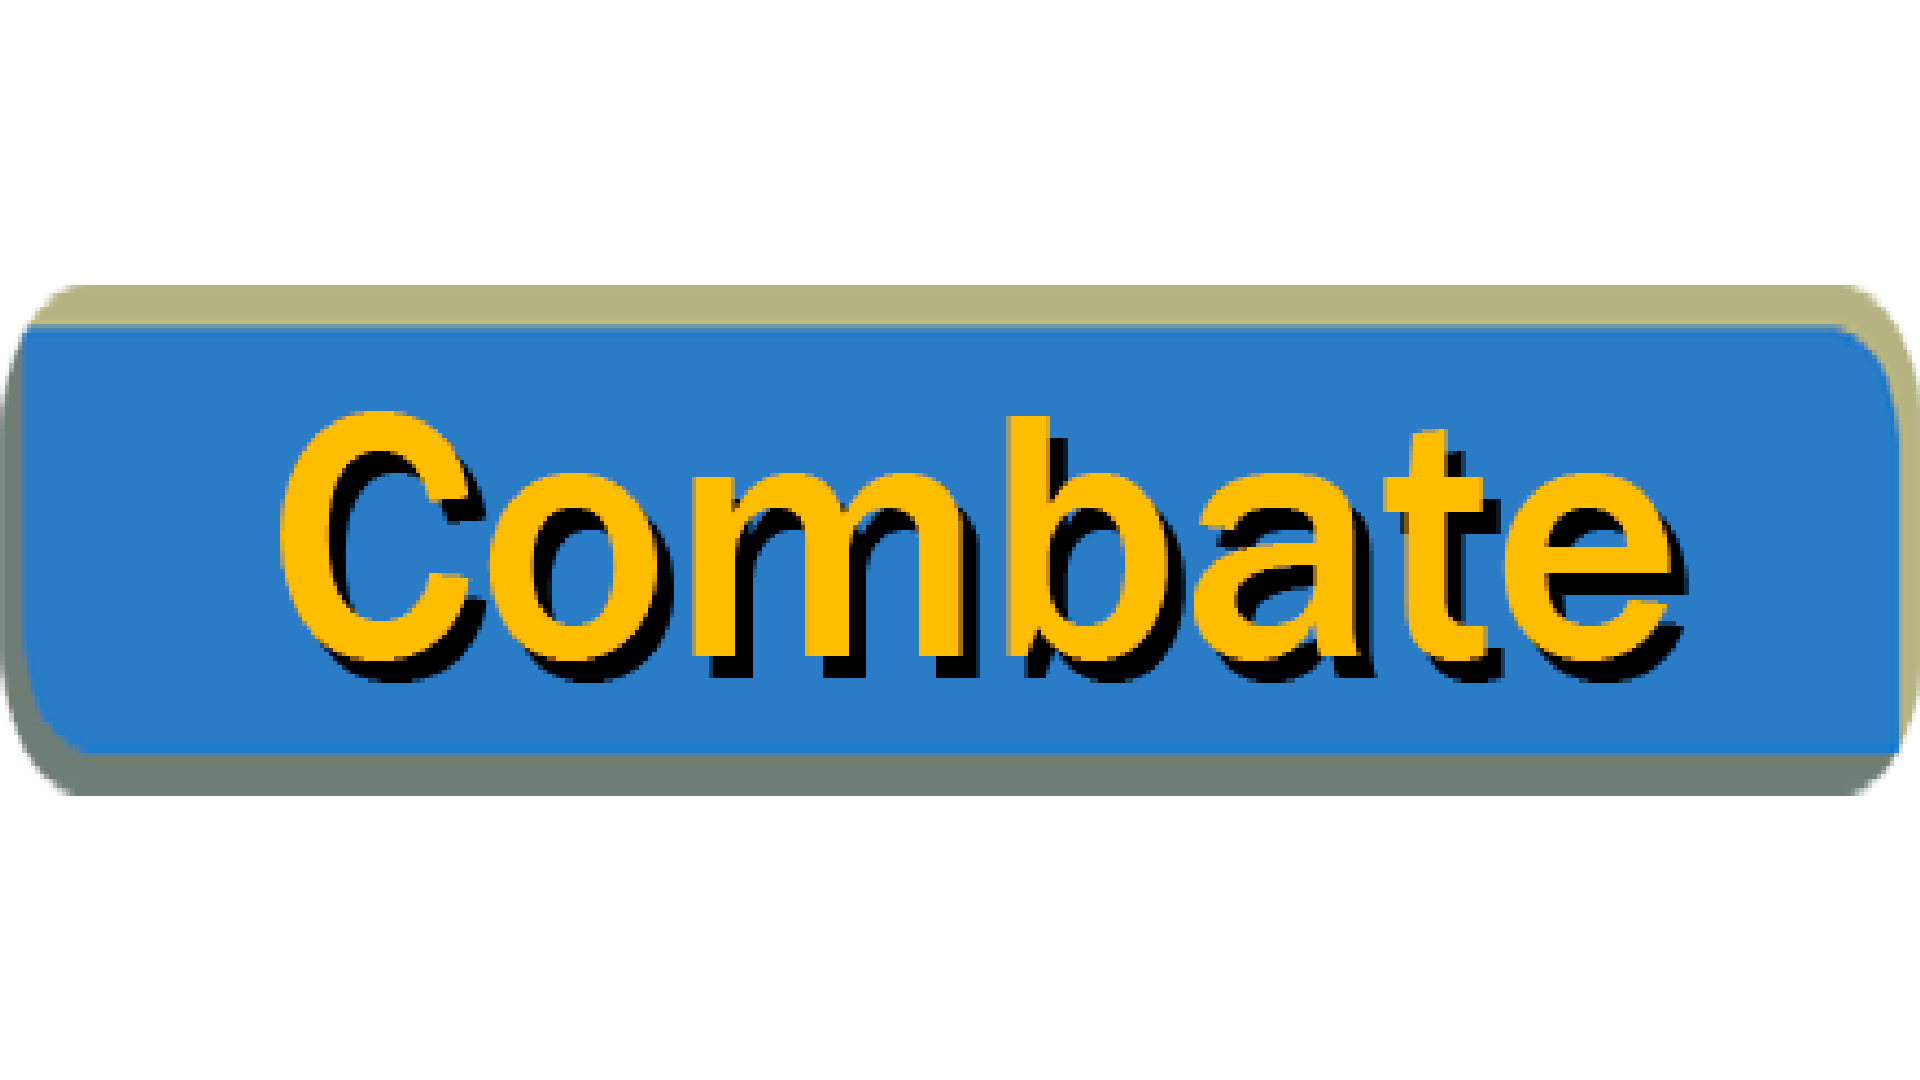
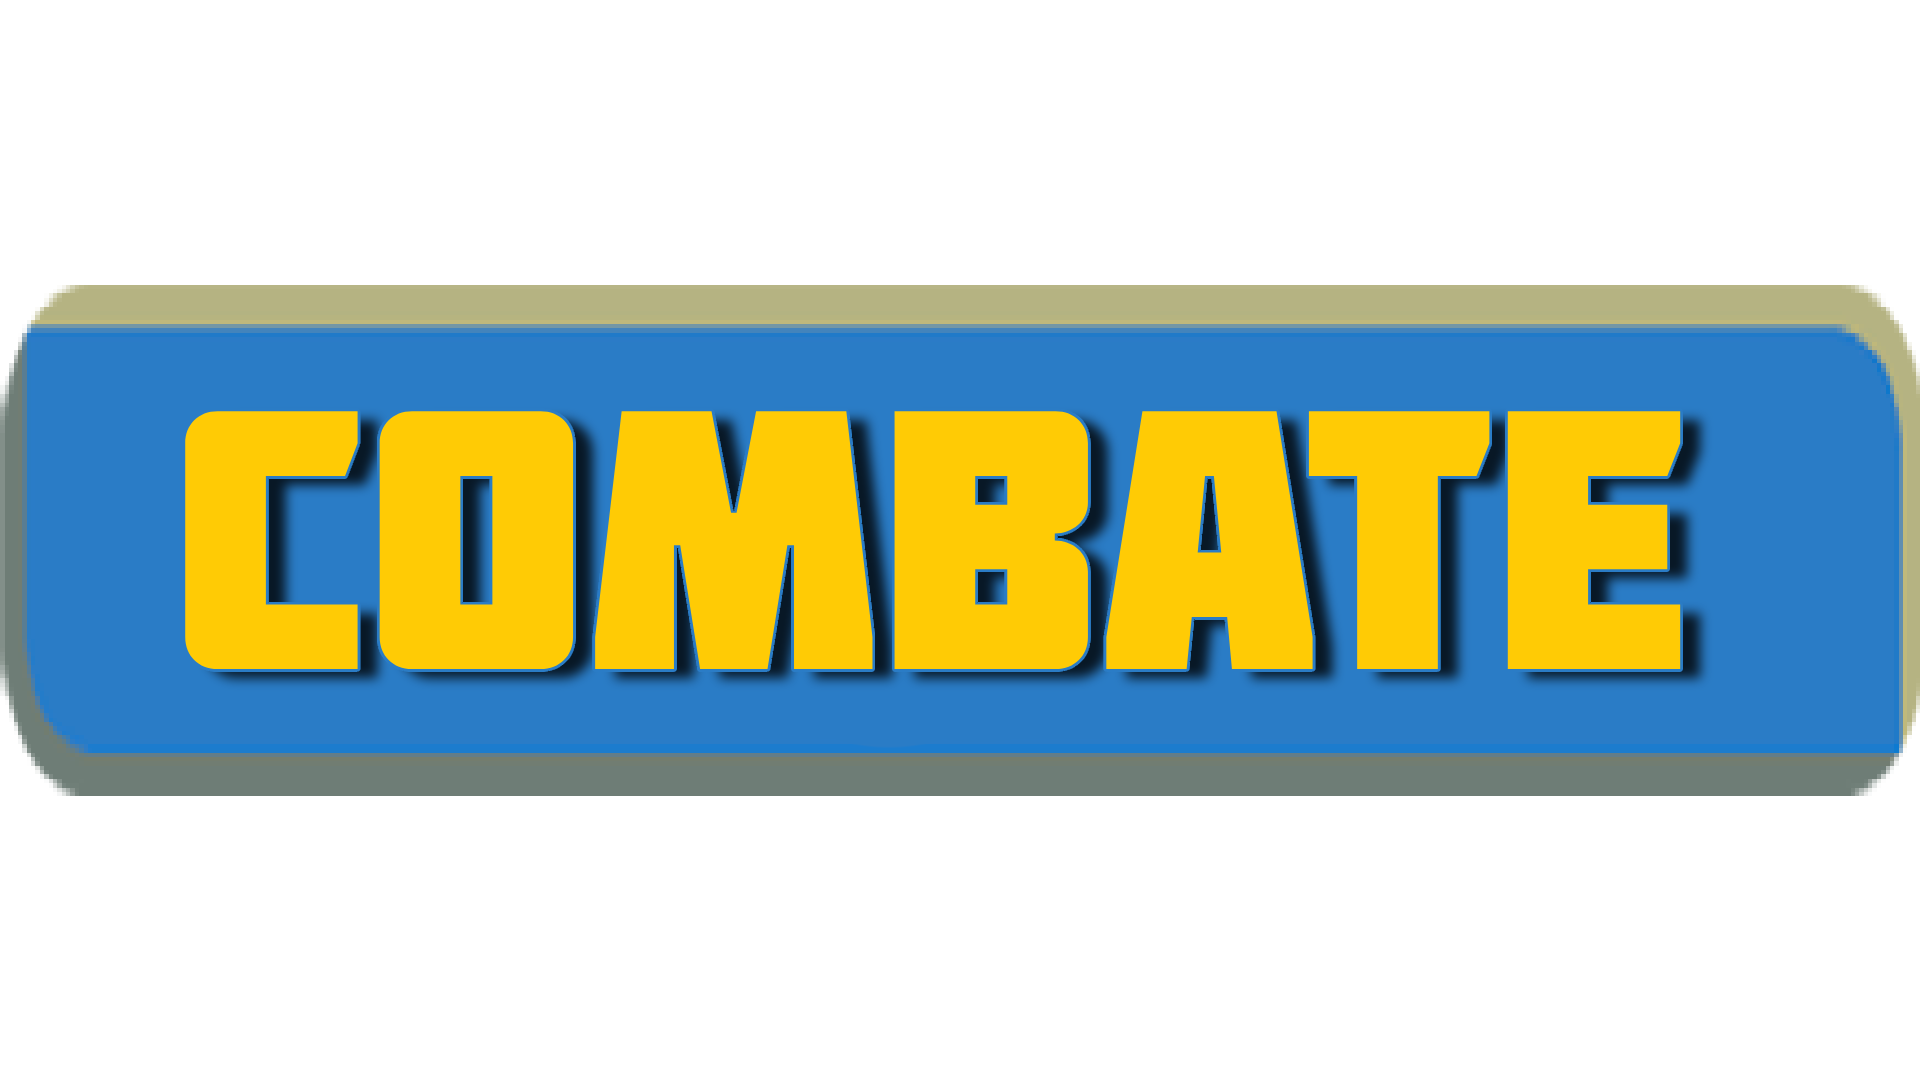
Mejora del menu

diff --git a/src/main/resources/Menu.css b/src/main/resources/Menu.css
@@ -8,67 +8,79 @@
 /* Estilo del botón individual (combate, pokedex, entrenador, mochila, etc...) */
 #combateButton {
     -fx-background-color: transparent;
-    -fx-translate-x: 298.5px;
-    -fx-translate-y: -120px;
+    -fx-translate-x: 297px;
+    -fx-translate-y: -108px;
     -fx-min-width: 230px;
     -fx-min-height: 130px;
     -fx-background-image: url('img/botones/menu-combate.png');
     -fx-background-size: contain;
     -fx-background-repeat: no-repeat;
     -fx-background-position: center;
-    -fx-rotate: 12deg;
+    -fx-rotate: 13.5deg;
 
 }
 
-#explorarButton {
+#capturarButton {
     -fx-background-color: transparent;
-    -fx-translate-x: 130px;
-    -fx-translate-y: 75px;
-    -fx-min-width: 180px;
-    -fx-min-height: 45px;
- /*   -fx-background-image: url('img/botones/menu-explorar.png'); */
+    -fx-translate-x: 270.5px;
+    -fx-translate-y: -10px;
+    -fx-min-width: 230px;
+    -fx-min-height: 130px;
+    -fx-background-image: url('img/botones/menu-capturar.png');
+    -fx-background-size: contain;
+    -fx-background-repeat: no-repeat;
+    -fx-background-position: center;
+    -fx-rotate: 14deg;
 }
+
 
 #pokedexButton {
     -fx-background-color: transparent;
-    -fx-translate-x: -120px;
-    -fx-translate-y: -120px;
-    -fx-min-width: 180px;
-    -fx-min-height: 45px;
+    -fx-translate-x: 245.5px;
+    -fx-translate-y: 88.5px;
+    -fx-min-width: 230px;
+    -fx-min-height: 130px;
     -fx-background-image: url('img/botones/menu-pokedex.png');
     -fx-background-size: contain;
     -fx-background-repeat: no-repeat;
     -fx-background-position: center;
-    -fx-rotate: 12deg;
+    -fx-rotate: 14deg;
 
 }
 
-#entrenadorButton {
+#tiendaButton {
     -fx-background-color: transparent;
-    -fx-translate-x: -400px;
-    -fx-translate-y: -235px;
-    -fx-min-width: 180px;
-    -fx-min-height: 45px;
-    -fx-background-image: url('img/botones/menu-entrenador.png');
+    -fx-translate-x: 222px;
+    -fx-translate-y: 186.2px;
+    -fx-min-width: 230px;
+    -fx-min-height: 130px;
+    -fx-background-image: url('img/botones/menu-tienda.png');
     -fx-background-size: contain;
     -fx-background-repeat: no-repeat;
     -fx-background-position: center;
-    -fx-rotate: 12deg;
+    -fx-rotate: 14deg;
 }
+
+/*
 
 #mochilaButton {
     -fx-background-color: transparent;
     -fx-min-width: 180px;
     -fx-min-height: 45px;
-    -fx-opacity: 0; /* Mochila no se muestra en el inicio */
+    -fx-opacity: 0;
 }
 
-#tiendaButton {
+#entrenadorButton {
     -fx-background-color: transparent;
-    -fx-translate-x: 130px;
-    -fx-translate-y: -7.5px;
-    -fx-min-width: 180px;
-    -fx-min-height: 45px;
+    -fx-translate-x: 298.5px;
+    -fx-translate-y: -120px;
+    -fx-min-width: 230px;
+    -fx-min-height: 130px;
+    -fx-background-image: url('img/botones/menu-tienda.png');
+    -fx-background-size: contain;
+    -fx-background-repeat: no-repeat;
+    -fx-background-position: center;
+    -fx-rotate: 12deg;
 }
 
 #salirButton {
@@ -79,6 +91,10 @@
     -fx-min-height: 45px;
 }
 
+*/
+
+
+
 #barra {
     -fx-translate-x: 65px;
     -fx-translate-y: 0px;
@@ -86,8 +102,30 @@
     -fx-min-height: 45px;
 }
 
+#logo {
+    -fx-translate-x: 322px;
+    -fx-translate-y: -225px;
+    -fx-scale-x: 0.5;
+    -fx-scale-y: 0.5;
+    -fx-effect: dropshadow(gaussian, rgba(49,100,158,0.7), 4, 0, 7.5, 4);
+    -fx-rotate: 14.5deg
+}
+
+/*
+Hover: Estilo de cuando tienes el ratón encima del botón:
+- Efecto de sombra.
+- Color del texto al tener el ratón encima del botón.
+
+Valores del hover:
+    gaussian: Tipo de sombra.
+    rgba(0,0,0,0.8): Los tres primeros valores son el RGB, el último la transparencia.
+    x1: Distancia horizontal entre la sombra y el objeto.
+    x2: Distancia vertical entre la sombra y el objeto.
+    x3: Desenfoque de la sombra.
+    x4: Tamaño de la extensión de la sombra.
+*/
+
     /* Hover: Estilo cuando tienes el ratón encima del botón */
     .button:hover {
-    -fx-effect: dropshadow(gaussian, rgba(0, 0, 0, 0.8), 3, 2, 0, 2);
-    -fx-text-fill: white;
+    -fx-effect: dropshadow(gaussian, rgba(0, 0, 0, 0.7), 3, 1, 4, 3);
     }

diff --git a/src/main/java/Pokemon/Menus/MenuEntrenador.java b/src/main/java/Pokemon/Menus/MenuEntrenador.java
@@ -3,19 +3,18 @@ package Pokemon.Menus;
 import Pokemon.Database.PokemonCRUD;
 import Pokemon.Entrenador.Entrenador;
 import Pokemon.Pokemon.Pokemon;
+import Pokemon.Tienda.Objeto;
 import javafx.application.Application;
 import javafx.geometry.Pos;
 import javafx.scene.Cursor;
 import javafx.scene.Scene;
-import javafx.scene.control.Alert;
+import javafx.scene.control.*;
 import javafx.scene.control.Alert.AlertType;
-import javafx.scene.control.Button;
-import javafx.scene.control.Label;
-import javafx.scene.control.ListView;
 import javafx.scene.image.Image;
 import javafx.scene.image.ImageView;
 import javafx.scene.input.ClipboardContent;
 import javafx.scene.input.Dragboard;
+import javafx.scene.input.MouseButton;
 import javafx.scene.input.TransferMode;
 import javafx.scene.layout.StackPane;
 import javafx.scene.layout.VBox;
@@ -26,6 +25,7 @@ import javafx.stage.Stage;
 
 import java.util.LinkedList;
 import java.util.Objects;
+import java.util.Optional;
 
 public class MenuEntrenador extends Application {
     private static final double WINDOW_WIDTH = 1080;
@@ -186,6 +186,31 @@ public class MenuEntrenador extends Application {
             }
             event.setDropCompleted(completado);
             event.consume();
+        });
+
+// Agregar evento para eliminar un Pokémon al hacer clic derecho
+        equipo1ListView.setOnMouseClicked(event -> {
+            if (event.getButton() == MouseButton.SECONDARY) {
+                String pokemonSeleccionado = equipo1ListView.getSelectionModel().getSelectedItem();
+                String nombrePokemon = pokemonSeleccionado;
+                int idPokemon = PokemonCRUD.idPokemon(nombrePokemon);
+                if (pokemonSeleccionado != null) {
+                    // Mostrar un cuadro de diálogo de confirmación
+                    Alert alert = new Alert(Alert.AlertType.CONFIRMATION);
+                    alert.setTitle("Eliminar Pokémon");
+                    alert.setHeaderText("¿Estás seguro de eliminar este Pokémon?");
+                    alert.setContentText("Pokémon: " + pokemonSeleccionado);
+
+                    Optional<ButtonType> result = alert.showAndWait();
+                    if (result.isPresent() && result.get() == ButtonType.OK) {
+                        // Eliminar el Pokémon del registro y de la lista
+                        equipo1ListView.getItems().remove(pokemonSeleccionado);
+                        PokemonCRUD.eliminarPokemon(idPokemon);
+                        // Realizar las operaciones necesarias para eliminar el Pokémon del registro
+                        // ...
+                    }
+                }
+            }
         });
 
         // PERMITIR QUE LOS ELEMENTOS SEAN SOLTADOS EN EQUIPO2LISTVIEW

diff --git a/src/main/java/Pokemon/Menus/Menu.java b/src/main/java/Pokemon/Menus/Menu.java
@@ -43,7 +43,14 @@ public class Menu extends Application {
         videoView.setFitWidth(1080);
         videoView.setFitHeight(650);
 
+        reproductor.setCycleCount(MediaPlayer.INDEFINITE);
         reproductor.play();
+
+        Image logo = new Image(Objects.requireNonNull(getClass().getResourceAsStream("/img/logo.png")));
+        ImageView imgView = new ImageView(logo);
+        imgView.setFitWidth(520);
+        imgView.setFitHeight(220);
+        imgView.setId("logo");
 
         // CREAMOS UN REPRODUCTOR DE MEDIOS PARA REPRODUCIR EL AUDIO
         Media audioMedia = new Media(getClass().getResource("/aud/Menu.wav").toExternalForm());
@@ -55,8 +62,8 @@ public class Menu extends Application {
         // El setId le asigna su ID dentro del css.
         Button combateButton = new Button();
         combateButton.setId("combateButton");
-        Button exploracionButton = new Button();
-        exploracionButton.setId("explorarButton");
+        Button capturarButton = new Button();
+        capturarButton.setId("capturarButton");
         Button pokedexButton = new Button();
         pokedexButton.setId("pokedexButton");
         Button entrenadorButton = new Button(Entrenador.getNombre());
@@ -64,7 +71,7 @@ public class Menu extends Application {
         // AÑADIR MOCHILA DENTRO DE ENTRENADOR
 //        Button mochilaButton = new Button("Mochila");
 //        mochilaButton.setId("mochilaButton");
-        Button tiendaButton = new Button("Tienda");
+        Button tiendaButton = new Button();
         tiendaButton.setId("tiendaButton");
         Button salirButton = new Button("Salir");
         salirButton.setId("salirButton");
@@ -88,7 +95,7 @@ public class Menu extends Application {
             primaryStage.setScene(menuCombateScene);
 
         });
-        exploracionButton.setOnAction(e -> {
+        capturarButton.setOnAction(e -> {
             // CÓDIGO PARA EJECUTAR CUANDO SE HACE CLIC EN EL BOTÓN
             // POR EJEMPLO, PARA MOSTRAR LA ESCENA MENUENTRENADOR:
             MenuExplorador menuExplorador = new MenuExplorador(primaryStage, primaryStage.getScene());
@@ -124,8 +131,8 @@ public class Menu extends Application {
 
         // CREAMOS UN VBOX
         StackPane root = new StackPane();
-        root.getChildren().addAll(videoView, barraView,combateButton, exploracionButton, pokedexButton, entrenadorButton, tiendaButton,
-                salirButton, muteButton);
+        root.getChildren().addAll(videoView, barraView,combateButton, capturarButton, pokedexButton, entrenadorButton, tiendaButton,
+                salirButton, muteButton, imgView);
 
         root.setAlignment(Pos.CENTER);
         root.setPadding(new Insets(20));

diff --git a/src/main/java/Pokemon/Database/PokemonCRUD.java b/src/main/java/Pokemon/Database/PokemonCRUD.java
@@ -11,6 +11,7 @@ import Pokemon.Pokemon.ListaEstados;
 import Pokemon.Tienda.Objeto;
 import Pokemon.Pokemon.Pokemon;
 import Pokemon.Pokemon.Tipo;
+import javafx.scene.control.ListView;
 
 import java.sql.*;
 import java.util.HashMap;
@@ -44,7 +45,7 @@ public class PokemonCRUD {
                     "defensa_especial, tipo1, tipo2, movimiento1, id_entrenador, id_pokedex, nivel, xp, foto, foto_espalda)" +
                     "VALUES (?, ?, ?, ?, ?, ?, ?, ?, ?, ?, ?, ?, ?, ?, ?, ?, ?, ?, ?, ?, ?)";
 
-            int nuevaId = pokemon.getId() + Funcion.random(1, 9999);
+            int nuevaId = pokemon.getId() + Funcion.random(1, 99999);
             int equipo = Entrenador.addPokemon(pokemon);
             Movimiento movimiento = generarMovimiento();
 
@@ -1024,6 +1025,20 @@ public class PokemonCRUD {
 
     }
 
+    public static void eliminarPokemon(int idPokemon) {
+        try {
+            Connection db = MySQL.getConexion();
+            String sql = "DELETE FROM capturado WHERE id_capturado = ?";
+            PreparedStatement preparedStatement = db.prepareStatement(sql);
+            preparedStatement.setInt(1, idPokemon);
+            int filasAfectadas = preparedStatement.executeUpdate();
+            System.out.println("Se eliminaron " + filasAfectadas + " filas.");
+
+        } catch (SQLException e) {
+            e.printStackTrace();
+        }
+    }
+
 
 //    public static String mostrarMochila(int idObjeto) {
 //
@@ -1071,7 +1086,11 @@ public class PokemonCRUD {
 //        return null;
 //    }
 
+    public static void main(String[] args) {
 
+
+
+    }
 
 }
 
